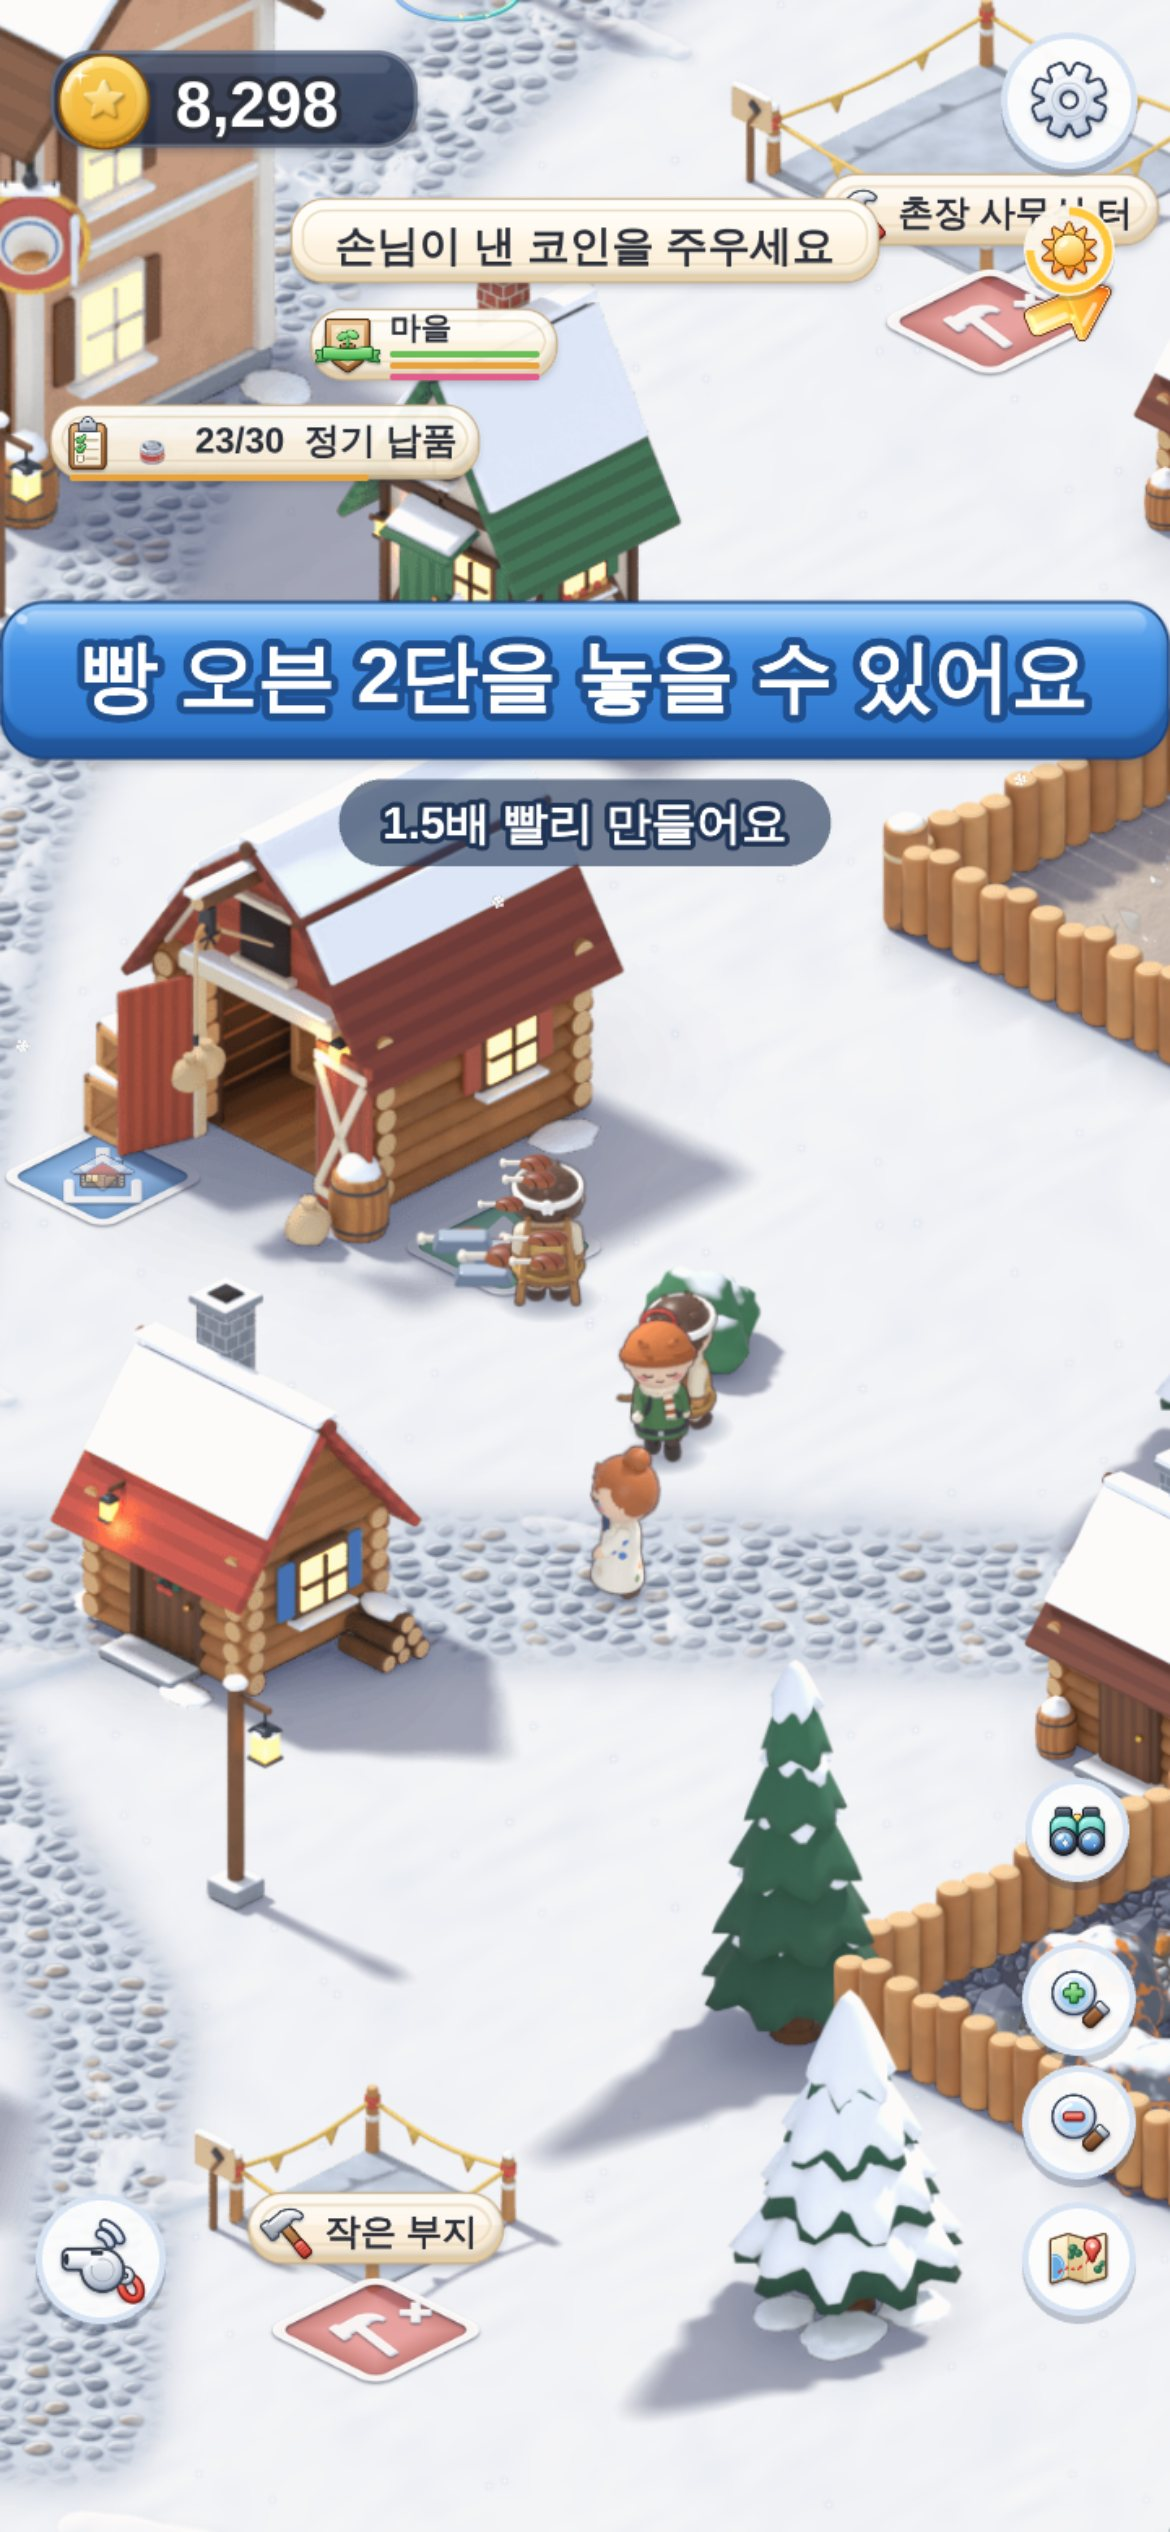
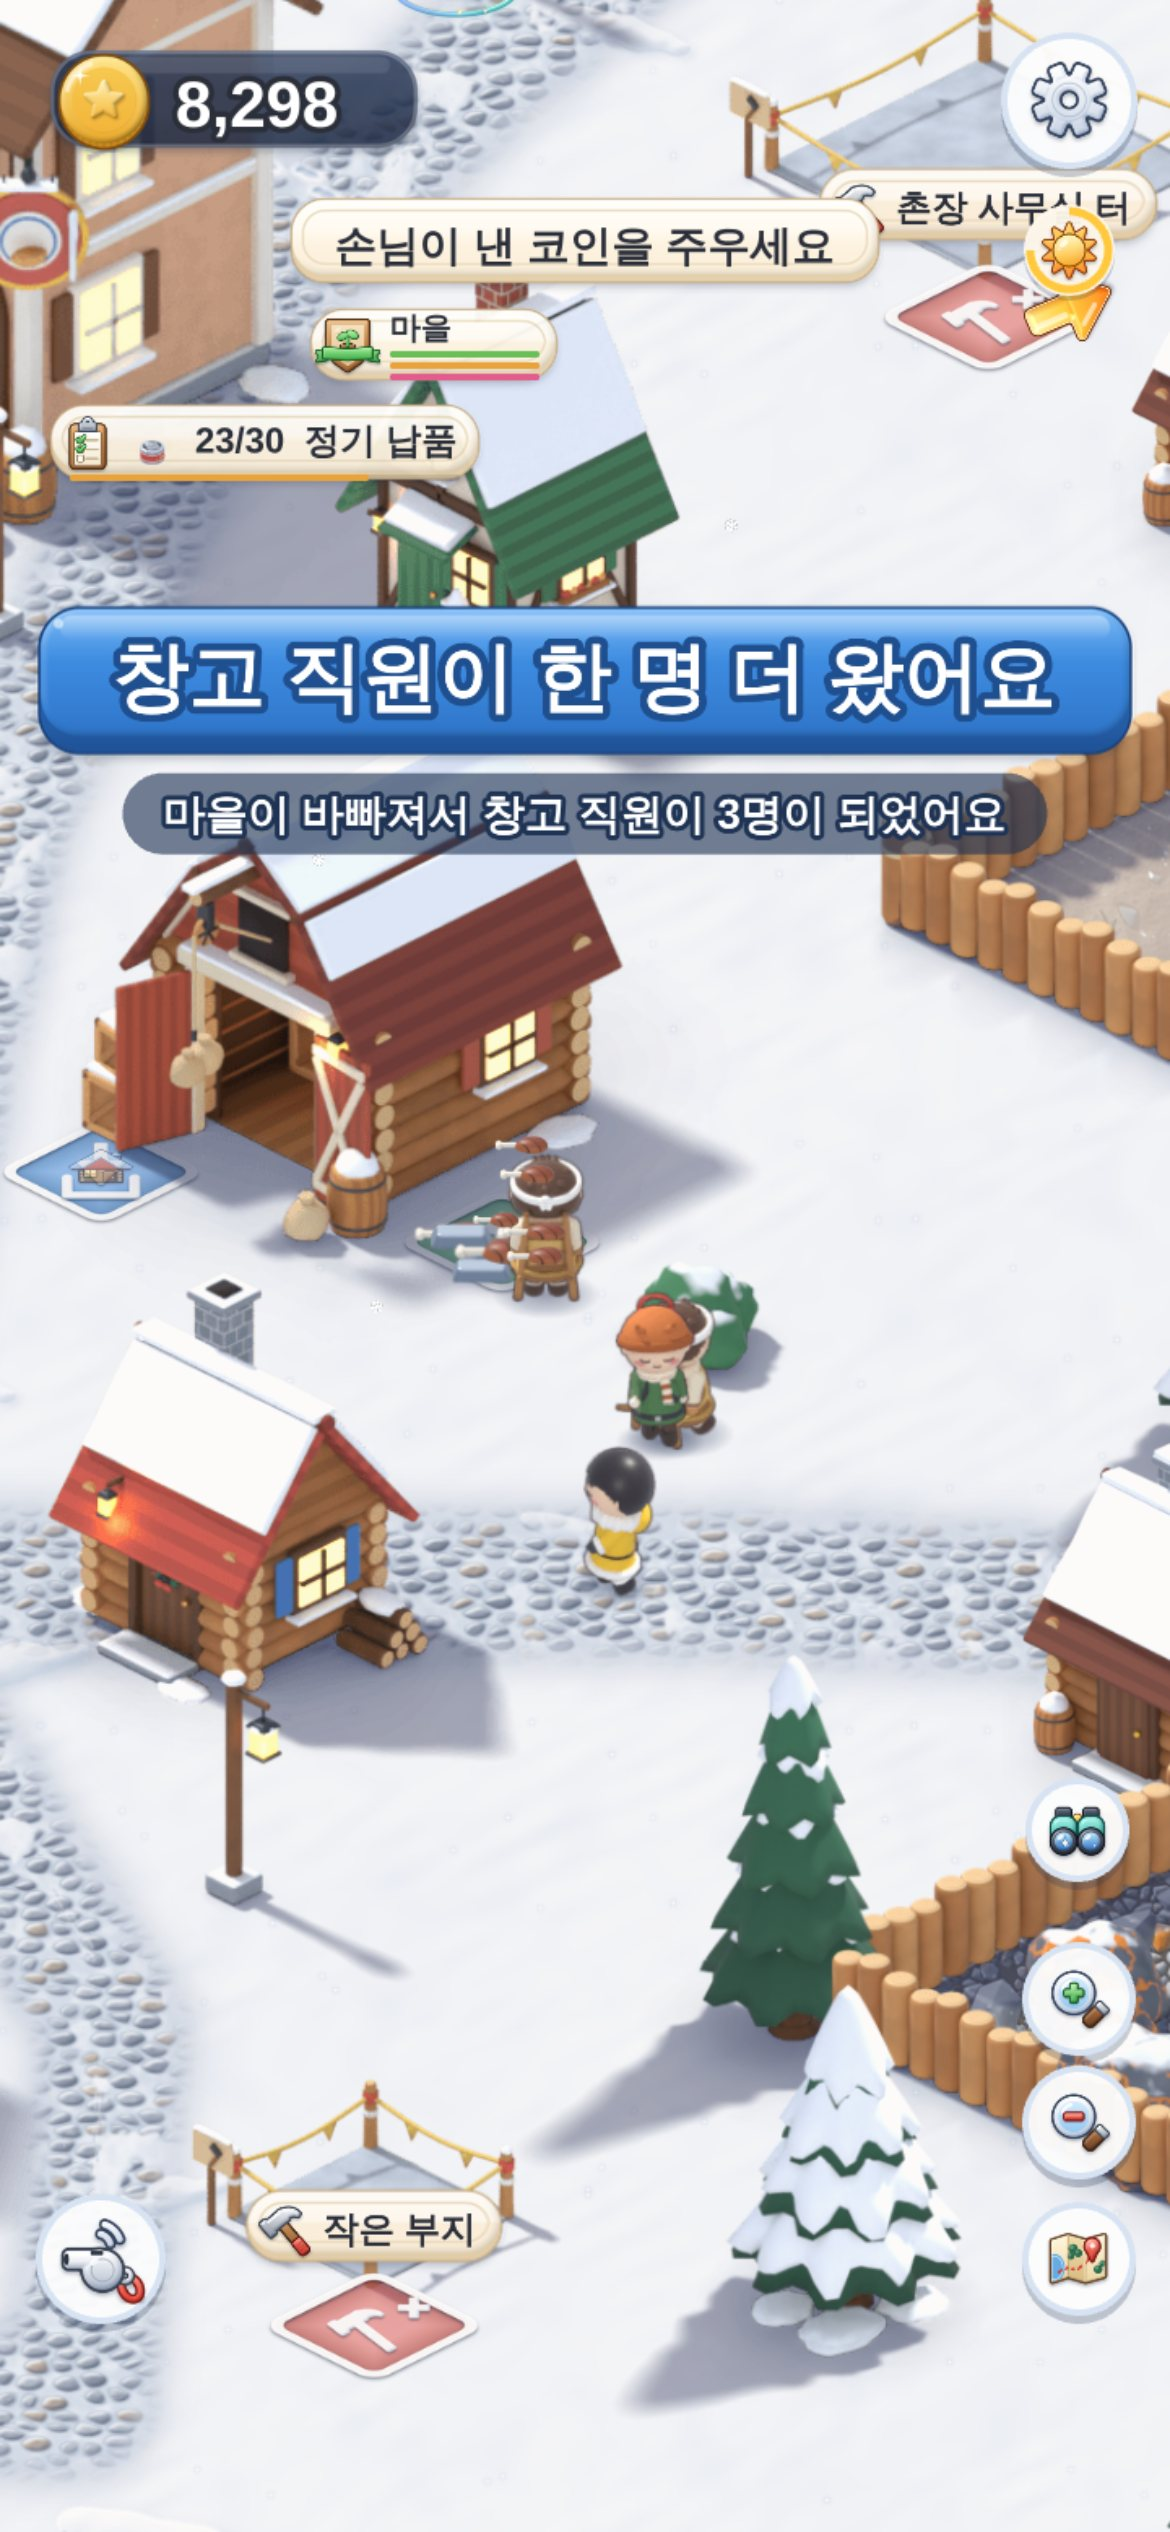
v4.2 test APK built from verified commit 3236722 (validate 38/38, boot test 16/16); WIP snapshot
Claude-Session: https://claude.ai/code/session_013Tw35UF4PB1GXz6AR9E9kG

diff --git a/frost-village/docs/build_reports/v42_touch.md b/frost-village/docs/build_reports/v42_touch.md
@@ -128,7 +128,30 @@ Prices are unchanged; the one knob if it is too much is `civic.restaurant.dishMu
 
 ### 3.3 Census: does it carry more? (late village, 60 game min)
 
-{{CENSUS_TABLE}}
+Census bot (`review_gameplay_census.mjs --load v41_save_smart_46min.json`), the same 46-min save on the base copy
+(`base60`) and on the touched source (`after60`), compared over the **same first 30 game minutes** (both runs were
+started for 60 minutes; on the loaded machine `after60` had reached 30 minutes when this report was written, so the
+window is cut there — `census/cmp.mjs` re-summarizes any window from the saved rows):
+
+| First 30 game minutes | base (v4.2) | touched | |
+|---|---|---|---|
+| income a minute (coins) | 2,388 | **2,655** | +11 % (≈ 62 % of it the restaurant) |
+| exported (train + depot) | 230 | **300** | +30 % |
+| made a minute (raw + goods) | 596 | 632 | +6 % (the village makes more when it is carried faster) |
+| 창고 crew | 2 | 2 → **6** (3 · 4 · 5 at game minutes 1 · 2 · 3, the 6th at 6) | idle 1 % → 9 % |
+| warehouse stock (avg) | 124 | 145 | of 300 |
+| outputs ≥ 80 % full — grill · sawmill · bakery · smelter · smokehouse | 60 · 7 · 52 · 28 · 48 % | **49 · 6 · 8 · 18 · 42 %** | |
+| outputs ≥ 80 % full — toolsmith · cannery | 40 · 8 % | **12 · 4 %** | |
+| raw piles ≥ 90 % full (any / fish · log · wheat · ore · meat) | 99 % / 62 · 9 · 19 · 67 · 92 | 97 % / 59 · 9 · 14 · 71 · 76 | the raw side barely moves |
+| dock queue max | 448 | 285 | |
+| shelf empty — bread · smoked meat · grilled fish | 0 · 22 · 1 % | 3 · 13 · 0 % | |
+| building sites waiting for materials (avg) | 0.19 | 0.10 | |
+| 큰 식당 served · coins · walk-outs a minute | 3.99 · 86 · 2.04 | **11.03 · 251 · 0** | tables stay at level 0 (the bot does not buy them) |
+
+What it shows: carrying faster empties the station and workshop outputs (bakery 52 → 8 %, toolsmith 40 → 12 %) and
+the goods reach shelves, the train and the warehouse; the raw piles stay full almost all the time (97–99 %), because the
+raw side is a **demand** problem (the stations cannot use more), which this touch does not address — the designer's
+"사갈 곳을 늘리기" is the next version.
 
 ## 4. Save v7 (additive)
 
@@ -152,11 +175,41 @@ unchanged (`save_v42`, `save_v2/v3/v35/v4 --browser`, `porters42` 5, `restaurant
 
 ## 6. Pacing bots (fresh game until 읍)
 
-{{BOTS}}
+Fresh game, fixed step (`review_gameplay_sim.mjs --v4 --upg greedy --after 20`), touched source; the bots were
+stopped once they were a 읍 (the machine was needed for the rest), so the later columns of §9.2 of the v4.2 report are
+not repeated here. One run each.
+
+| Run | v3 complete | **읍** | v4.2 verify (§9.2) | gate (≤ +3 %) | errors |
+|---|---|---|---|---|---|
+| smart | 40.6 | **44.8** | 47.3 | −5 % — pass | 0 |
+| arrow-only | 40.8 | **48.0** | 51.5 | −7 % — pass | 0 |
+
+The first 20 minutes do not change (no 창고, no restaurant yet). After the 창고 (≈ 35 min) the crew follows the making
+(≈ 480 a minute then, i.e. 4 by the rule — measured in `base35_10`, not logged by these bot runs) and the restaurant
+earns more, so the 읍 savings come sooner; single runs on a loaded machine, so read −5 / −7 % as "not slower".
 
 ## 7. Performance
 
-{{PERF}}
+`probe/probe_perf.mjs`: the 46-min save in one browser, 3 batches of 400 logic-only steps per view, first with the
+crew of 2 and 8 seats, then (same page, 3 game minutes later) crew 6, level 2 tables and the 서빙 직원 2. Loaded
+machine: the whole-step averages swing 9–64 ms between batches, so only the component times are worth reading.
+
+| View | crew · seats | 창고 직원 update, ms a step (3 batches) | 큰 식당 update, ms a step | display objects |
+|---|---|---|---|---|
+| 창고 | 2 · 8 | 0.16 · 0.34 · 0.20 | (0.44 · 0.94 · 0.81) | 1,211–1,468 |
+| 큰 식당 | 2 · 8 | (0.33 · 0.49 · 0.17) | 1.00 · 0.72 · 0.39 | 1,558–1,578 |
+| 창고 | 6 · 16 | 0.61 · 0.26 · 0.48 | (0.78 · 0.67 · 0.43) | 1,657–1,690 |
+| 큰 식당 | 6 · 16 + server 2 | (0.28 · 0.62 · 0.42) | 0.54 · 0.67 · 0.59 | 1,770–1,800 |
+| 창고 again | 6 · 16 | 0.70 · 0.88 · 0.65 | (1.23 · 0.92 · 0.60) | 1,652–1,672 |
+
+- 창고 crew: ≈ 0.1 ms a porter a step on this machine (2 → 6: +0.3 to +0.5 ms); on an unloaded machine the v4.2
+  report's logic numbers run 5–10× lower. The cap stays at 6 (the census crew is 91 % busy at 6, so more would idle).
+- 큰 식당: no measurable change with 16 seats and two servers (serve points are cached per seat).
+- Display objects: the new things are ≈ 35 (4 porters with shadow and stack, 4 tables, 2 lantern strings, a server);
+  the rest of the +150–250 is the save's village growing over the probe's minutes (as in the v4.2 soak).
+- Textures: none new. The back-yard tables, lanterns and lamp are the terrace's own props; the new 창고 직원 use the
+  porter looks already resident; the 서빙 직원 2 uses `npc_clerk_b`, a clerk look the village loads at the start
+  (`Game.js` first-batch characters). No new pack page, no new file, so the artifact file count is unchanged.
 
 ## 8. Screenshots (`docs/previews/screens_v42/`, 390 × 844, DPR 3, Korean)
 
